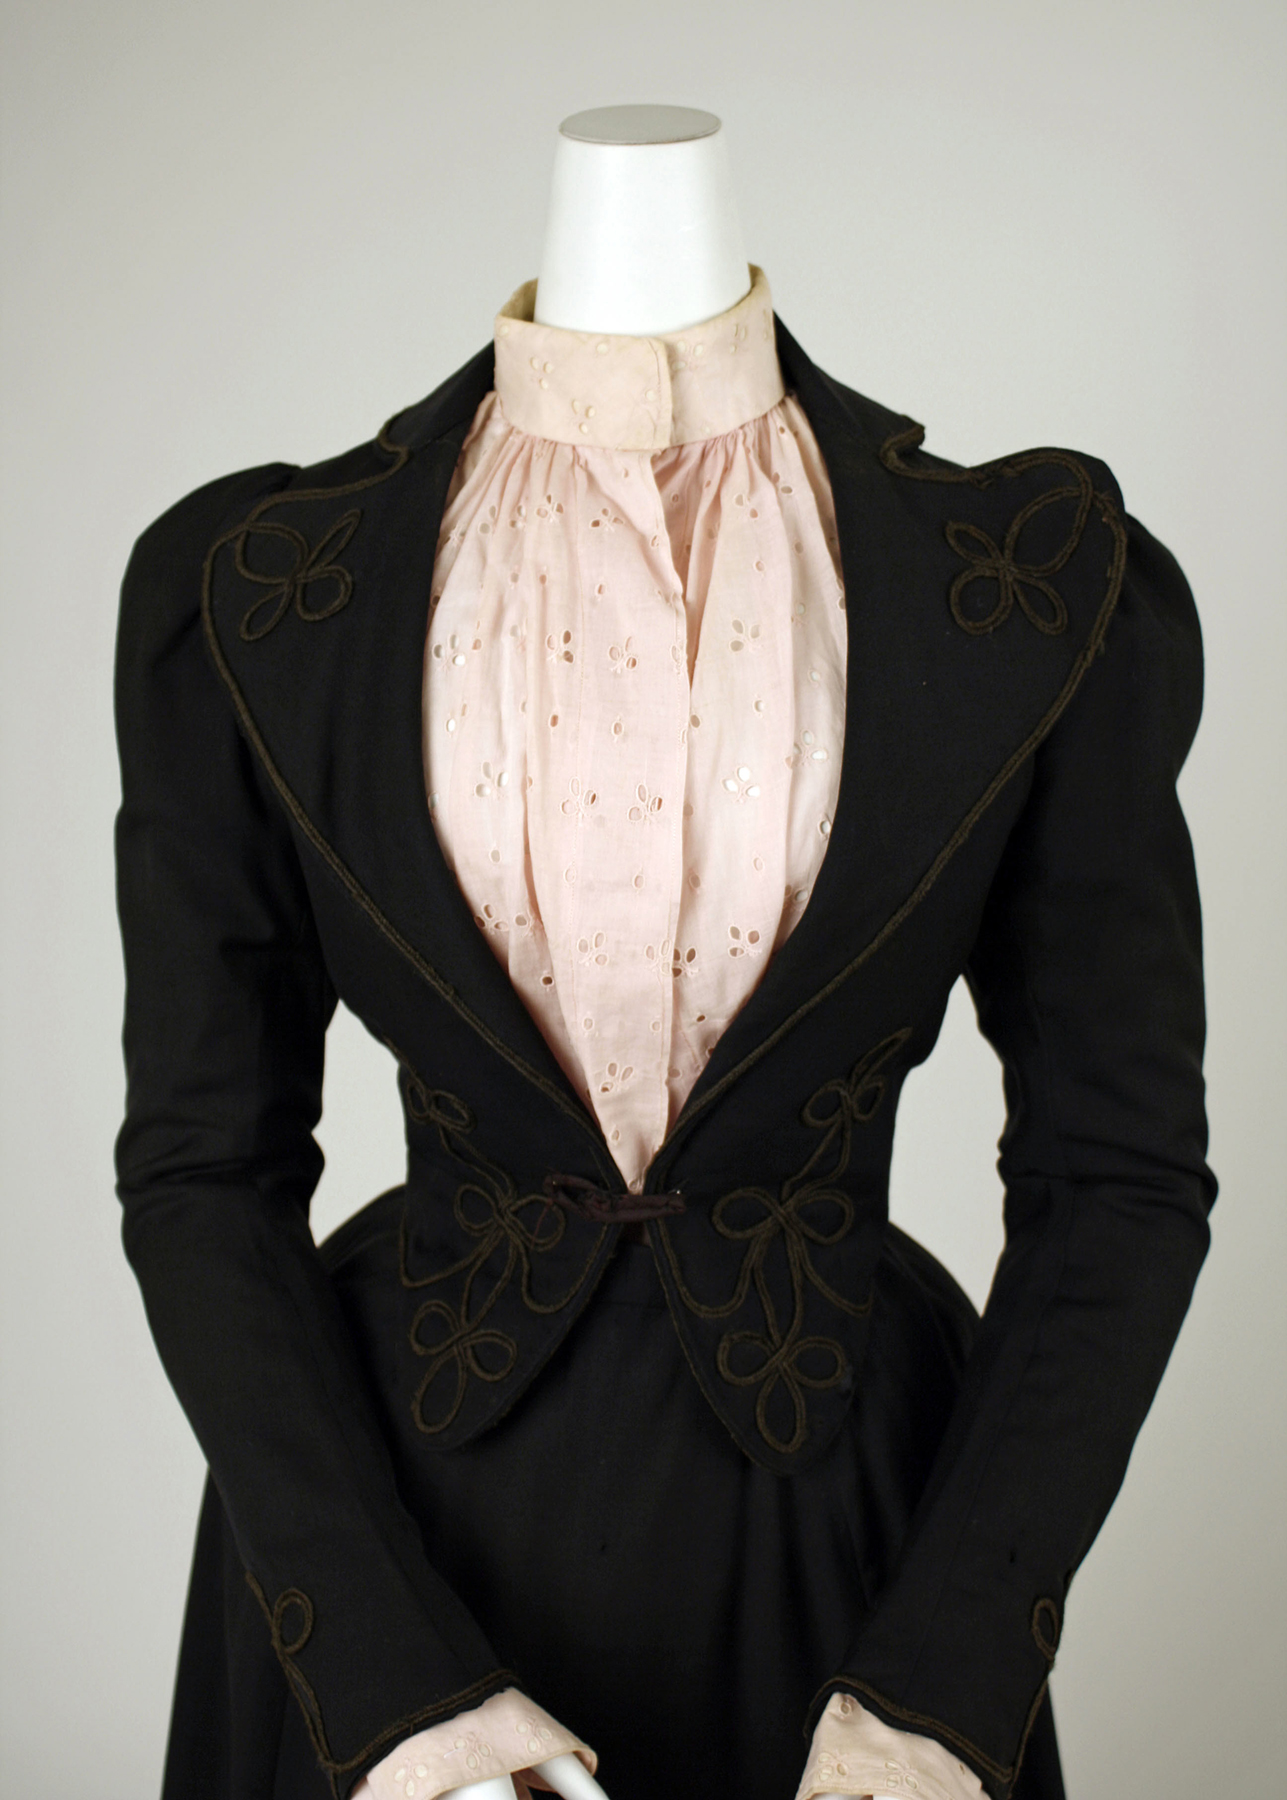
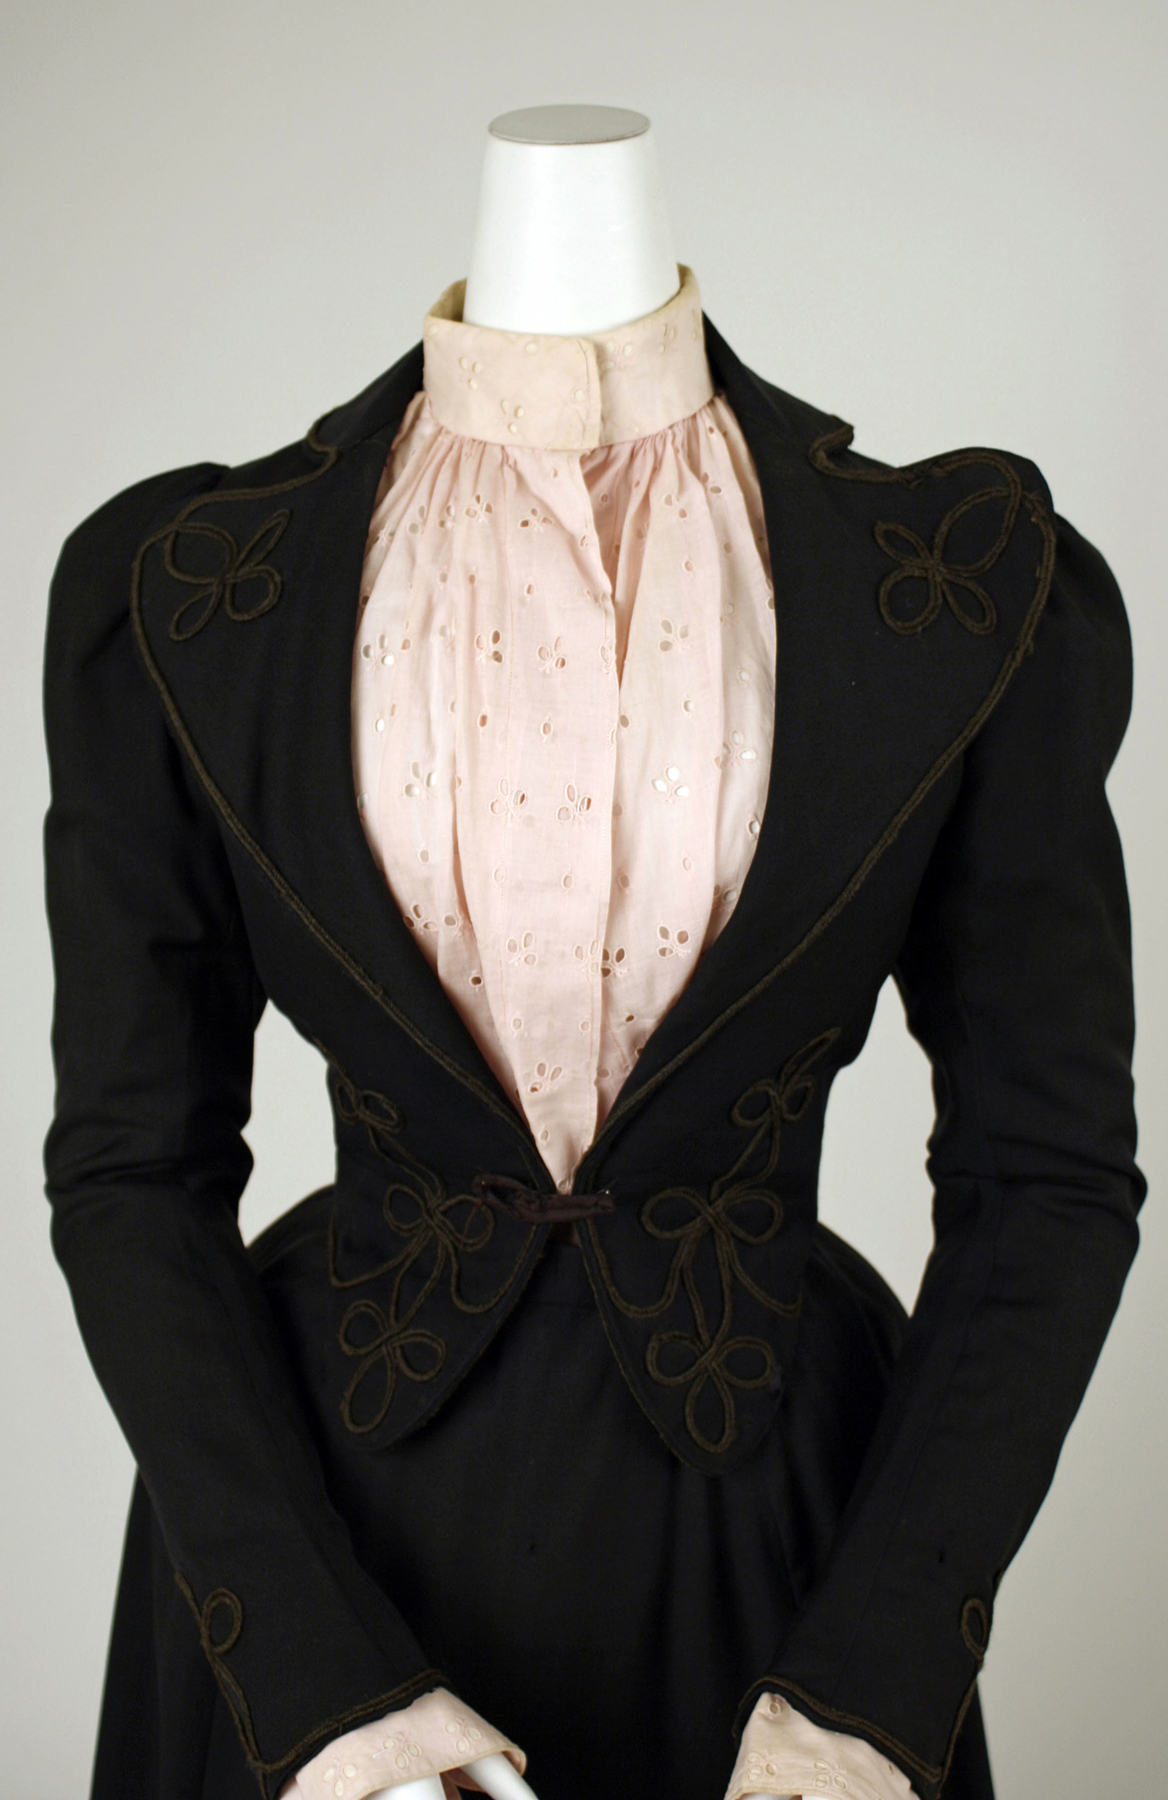
sizing pics

diff --git a/index.html b/index.html
@@ -18,43 +18,51 @@
 		Here are some <b>real life</b> examples.</p>
 		
 		<!-- Timeline Pics -->
+		<!--1886-->
 		<h2>1886-ish:</h2>
-			<img src="img/1886ish American from The Met A.jpg">
+			<img src="img/1886ish American from The Met A.jpg" class:="center">
 			<p class="caption">Source: <a target="_blank" href="https://www.metmuseum.org/art/collection/search/100037?searchField=All&amp;sortBy=Relevance&amp;ft=1886+dress&amp;offset=0&amp;rpp=20&amp;pos=8">The Met</a></p>
 			<p>Most sleeves were flush with the dress during the 1870s & early-to-mid 1880s.</p>
+		<!--1889-->
 		<h2>1889-1890:</h2>
-			<img src="img/1889-1890ish book Victorian Fashion in America.png">
+			<img src="img/1889-1890ish book Victorian Fashion in America.png" class:="center">
 			<p class="caption">Source: <a target="_blank" href="https://smile.amazon.com/Victorian-Fashion-America-Photographs-Costumes/dp/0486418146/ref=sr_1_1?dchild=1&keywords=victorian+fashion+in+america&qid=1591566024&sr=8-1">Victorian Fashion in America</a></p>
+		<!--1892-->
 		<h2>1892:</h2>
-			<img class="multiple" src="img/1892 Suit B About Time.png">
-			<img class="multiple" src="img/1892 Suit close.png">
-			<p class="caption">	Source: <a target="_blank" href="https://www.google.com/books/edition/About_Time/DAneDwAAQBAJ?hl=en&gbpv=1&bsq=1892">About Time</a></p>
+			<div>
+			<img class="multiplebigger" src="img/1892 Suit B About Time.png">
+			<img class="multiplebigger" src="img/1892 Suit close.png">
+			<p class="caption">	Source: <a target="_blank" href="https://www.google.com/books/edition/About_Time/DAneDwAAQBAJ?hl=en&gbpv=1&bsq=1892">About Time</a></p></div>
+		<!--1895-->
 		<h2>1895-ish:</h2>
 			<img src="img/1895ish book About Time.png">
 			<p class="caption"> Source: <a target="_blank" href="https://www.google.com/books/edition/About_Time/DAneDwAAQBAJ?hl=en&gbpv=1&bsq=Page%2026">About Time</a>, page 26</p>
 			<p>Houston, we have lift-off!
+		<!--1896-->
 		<h2>1896:</h2>
 			<img src="img/1896 Daisy Beals.jpg">
 			<p class="caption">Jenn's personal collection</p>
 			<p>This is my relative Daisy Beals.</p>
+		<!--1897-->
 		<h2>1897:</h2>
 			<img class="horizontal" src="img/1897 Sears.png">
 			<p class="caption">Source: Sears Catalogue, 1897.</p>
+		<!--1900-->
 		<h2>1900:</h2>
-			<img class="horizonal" src="img/1900 Sarah Phelps Jenkins sleeves B.jpg">
+			<img class="horizontal" src="img/1900 Sarah Phelps Jenkins sleeves B.jpg">
 			<p class="caption">My ancestor Sarah "Sleeves" Jenkins
 			<p>This type of sleeve was perfect for the on-the-go kidnapper, who could easily smuggle a pair of small chilren across state borders without drawing attention to themselves.</p>
 
 <!-- Colors -->
-		<h2>Colors in the clothing</h2>
-		<p>Black and white pictures make it look like all their dresses were, well, black and white.  But they were very colorful!  The shirt in this 1892 dress looks white in b&w pictures, but it was a lovely light pink eyelet.</p>
+		<h2>Colors in clothing</h2>
+		<p>Black and white pictures make it look like all their dresses were, well, black and white.  But they were very colorful!<br>In this black & white picture, the shirt appears white.</p>
 		<img src="img/1892 from book About Time A.png">
+		<div><p>But in real life it was actually a lovely light pink eyelet.</p>
 		<img class="multiple" src="img/1892 Met C.jpg">
 		<img class="multiple" src="img/1892 Met D.jpg">
 		<img class="multiple" src="img/1892 Met E.jpg">
-		<p><a target="_blank" href="https://www.metmuseum.org/art/collection/search/84443?searchField=All&amp;sortBy=Relevance&amp;ft=1892+american+suit+eyelet&amp;offset=0&amp;rpp=20&amp;pos=3">Source: The Met</a></p>
+		<p><a target="_blank" href="https://www.metmuseum.org/art/collection/search/84443?searchField=All&amp;sortBy=Relevance&amp;ft=1892+american+suit+eyelet&amp;offset=0&amp;rpp=20&amp;pos=3">Source: The Met</a></p></div>
 <!-- Stuff from class -->
-		<!-- Numbered list -->
 		<h2>See the fabrics!</h2>
 		<!-- Un-numbered list -->
 		<ul>
@@ -69,3 +77,10 @@
 	</footer>
 </body>
 </html>
+
+
+
+
+
+
+

diff --git a/css/Sleeves.CSS b/css/Sleeves.CSS
@@ -13,11 +13,11 @@ header h1{
 	padding-bottom: 100px;
 	font-size: 50pt;
 	margin: 0px;
-	
 }
 
 header img{
 	height: 230px;
+	width: 215px;
 	float: left
 }
 
@@ -25,15 +25,46 @@ main{
 	max-width: 900px;
 	margin: 10px;
 	padding: 10px;
-
 }
-
+main h2{
+	padding-top: 20px;
+	padding-bottom: 0px;
+}
 main img{
-	max-width: 100%;
-	margin: 0 auto;
-	padding: 10px 10px 0px;
+	margin-left: auto;
+	margin-right: auto;
+	padding: 0px auto 0px;
+	border-radius: 50px;
+    height: 800px;
 }
 
+img.center{
+  display: block;
+  margin-left: auto;
+  margin-right: auto;
+}
+
+img.horizontal{
+	width: 800px;
+	height: auto;
+}
+
+.times{
+	display: flex;
+	float: left;
+	flex-wrap: wrap;
+	width: 40%;
+	height: 40%;	
+}
+img.multiple{
+	width: 20%;
+	height: 20%;
+}
+
+img.multiplebigger{
+	width: 40%;
+	height: 40%;
+}
 
 body{
 	font-family: 'Noto Serif JP', serif;
@@ -50,18 +81,10 @@ h2{
 	text-align: center;
 }
 
-img.horizontal{
-	width: 800px;
-}
-
-img{
-	border-radius: 50px;
-}
-
-
 a{
 	color: grey;
 }
+
 a:hover{
 	color: black;
 	background-color: #ebdcfb;
